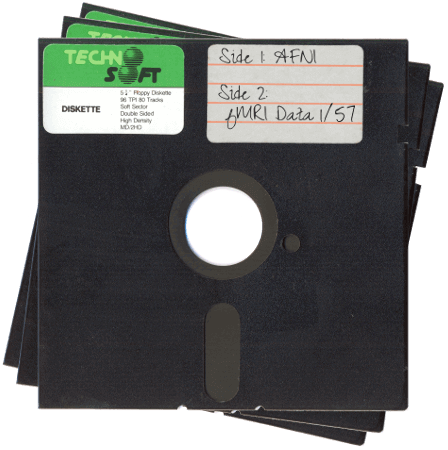
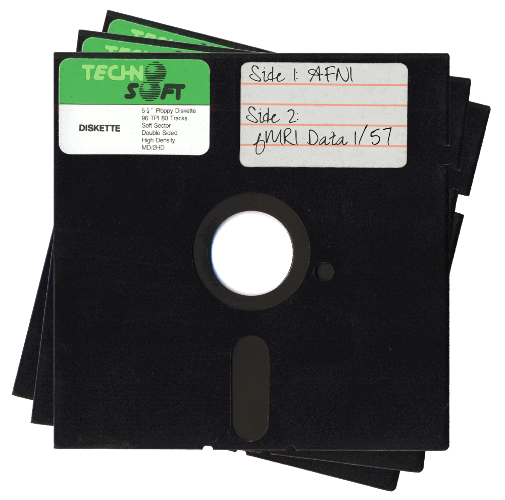
Another whack at the floppy image
Cleaned up the borders, adjusted the black levels, reduced some of the
graininess, rotated the under floppies at predictable intervals. Compressed the
hell out of it (though, still room for improvement. Way too much detail in the
black surface of the floppy).

diff --git a/content/pages/index.html b/content/pages/index.html
@@ -111,7 +111,7 @@
 
   <section id="resources" class='card right with-art'>
     <div class="wrapper">
-      <div class='img-wrap'><img src="/theme/img/floppies.png" alt="Giraffe"></div>
+      <div class='img-wrap'><img src="/theme/img/floppies.png" alt='5 1/4" Floppies'></div>
       <div class="blurb">
         <h2>Non-Acquisition <strong>Resources</strong></h2>
         <p>These additional (non-caffeinated) resources are also available:</p>

diff --git a/theme/static/css/style.css b/theme/static/css/style.css
@@ -339,7 +339,7 @@ header.card, section.card {
 /* Resources */
 #resources { text-align: left; }
 @media (min-width: 1024px) {
-  #resources .img-wrap img { width: 85%; }
+  #resources .img-wrap img { width: 95%; }
 }
 
 /* Footer */
